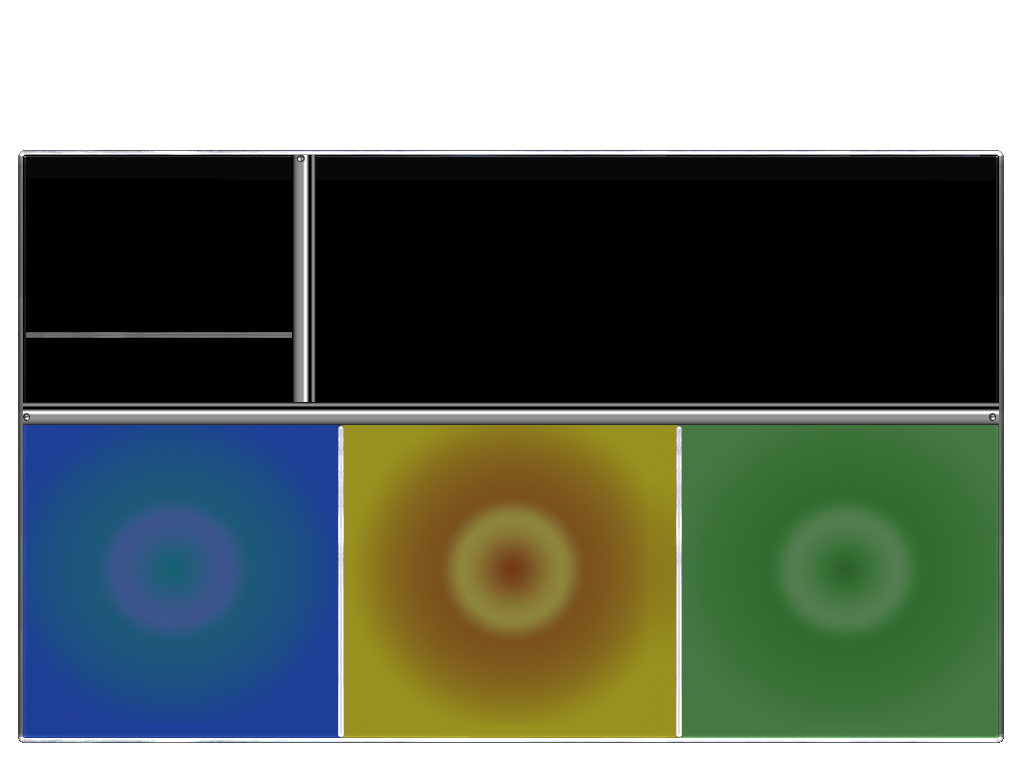
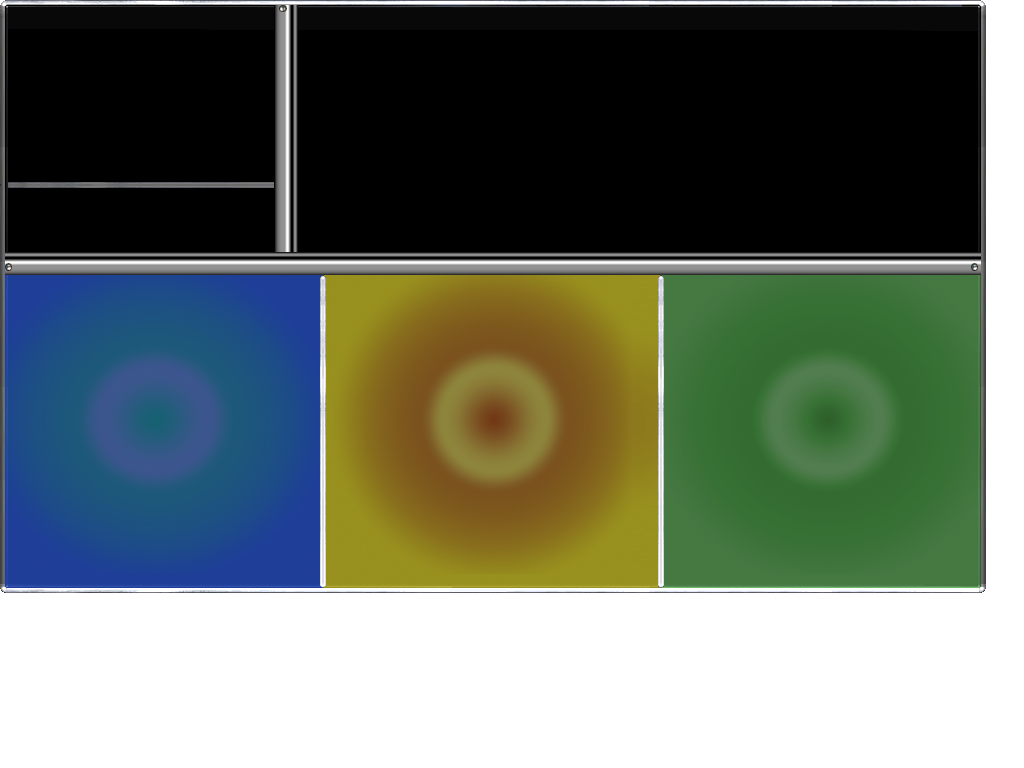
Troop menu Done without changing sprites of the cards, have to fix coordinates of the sprites

diff --git a/Motor2D/StrategyMapScene.cpp b/Motor2D/StrategyMapScene.cpp
@@ -70,26 +70,38 @@ bool StrategyMapScene::Start()
 	App->render->camera.y = -world_position.y + h;
 
 	// Troops menu
-	t_b_bg = App->gui->CreateImage({ 20,95 }, { 26,908,986,593 }, main_panel);
-	App->gui->DisableElement(t_b_bg);
-	backbutton_t_b = App->gui->CreateButton({ 940,100 }, small_button_rect, t_b_bg);
+	troops_background = App->gui->CreateImage({ 20,95 }, { 789,1222,990,600 }, main_panel);
+	
+	backbutton_t_b = App->gui->CreateButton({ 940,100 }, small_button_rect, troops_background);
 	back_cross_text = App->gui->CreateLabel({ 15,10 }, "ui/Fonts/command_and_conquer___logo_font_by_dexistor371-d6k2yvb.ttf", 28, "X", { 0,0,0,0 }, 0, backbutton_t_b);
 	App->gui->DisableElement(backbutton_t_b);
-	troops_button = App->gui->CreateButton({ 380,100 }, large_button_rect, t_b_bg);
+	troops_button = App->gui->CreateButton({ 380,100 }, large_button_rect, troops_background);
 	troops_text = App->gui->CreateLabel({ 50,10 }, "ui/Fonts/command_and_conquer___logo_font_by_dexistor371-d6k2yvb.ttf", 20, "TROOPS", { 0,0,0,0 }, 0, troops_button);
 	App->gui->DisableElement(troops_button);
-	buildings_button = App->gui->CreateButton({ 600,100 }, large_button_rect, t_b_bg);
+	buildings_button = App->gui->CreateButton({ 600,100 }, large_button_rect, troops_background);
 	buildings_text = App->gui->CreateLabel({ 35,10 }, "ui/Fonts/command_and_conquer___logo_font_by_dexistor371-d6k2yvb.ttf", 20, "BUILDINGS", { 0,0,0,0 }, 0, buildings_button);
 	App->gui->DisableElement(buildings_button);
 
 
-	for (int i = 0; i < 4; i++) {
-	deck_buttons[i] = App->gui->CreateButton({ 940,100 }, nullptr, t_b_bg);
-	}
+	
+	deck_buttons[0] = App->gui->CreateButton({ 320,69 }, App->gui->LoadUIButton(App->game_manager->GetPlayerDeck()->cards[0]->type, "deck"), troops_background);
+	deck_buttons[1] = App->gui->CreateButton({ 485,69 }, App->gui->LoadUIButton(App->game_manager->GetPlayerDeck()->cards[1]->type, "deck"), troops_background);
+	deck_buttons[2] = App->gui->CreateButton({ 666,69 }, App->gui->LoadUIButton(App->game_manager->GetPlayerDeck()->cards[2]->type, "deck"), troops_background);
+	deck_buttons[3] = App->gui->CreateButton({ 800,69 }, App->gui->LoadUIButton(App->game_manager->GetPlayerDeck()->cards[3]->type, "deck"), troops_background);
+	
 
-	for (int i = 0; i < 4; i++) {
-		collection_buttons[i] = App->gui->CreateButton({ 940,100 }, nullptr, t_b_bg);
-	}
+	
+	collection_buttons[0] = App->gui->CreateButton({ 31,320 }, App->gui->LoadUIButton(1, "upgrade"), troops_background);
+	collection_buttons[1] = App->gui->CreateButton({ 170,320 }, App->gui->LoadUIButton(2, "upgrade"), troops_background);
+	collection_buttons[2] = App->gui->CreateButton({ 130,500 }, App->gui->LoadUIButton(3, "upgrade"), troops_background);
+	collection_buttons[3] = App->gui->CreateButton({ 390,320 }, App->gui->LoadUIButton(4, "upgrade"), troops_background);
+	collection_buttons[4] = App->gui->CreateButton({ 550,320 }, App->gui->LoadUIButton(5, "upgrade"), troops_background);
+	collection_buttons[5] = App->gui->CreateButton({ 460,500 }, App->gui->LoadUIButton(6, "upgrade"), troops_background);
+	collection_buttons[6] = App->gui->CreateButton({ 720,320 }, App->gui->LoadUIButton(7, "upgrade"), troops_background);
+	collection_buttons[7] = App->gui->CreateButton({ 860,320 }, App->gui->LoadUIButton(8, "upgrade"), troops_background);
+	collection_buttons[8] = App->gui->CreateButton({ 800,500 }, App->gui->LoadUIButton(9, "upgrade"), troops_background);
+	App->gui->DisableElement(troops_background);
+	
 	
 
 
@@ -153,10 +165,11 @@ bool StrategyMapScene::GUIEvent(UIElement * element, GUI_Event gui_event)
 		}
 		else if (element == menu_button) {
 			App->game_manager->collection;
+			
 
 			App->gui->EnableElement(troops_button);
 			App->gui->EnableElement(buildings_button);
-			App->gui->EnableElement(t_b_bg);
+			App->gui->EnableElement(troops_background);
 			App->gui->EnableElement(backbutton_t_b);
 
 			App->gui->DisableElement(menu_button);
@@ -165,8 +178,8 @@ bool StrategyMapScene::GUIEvent(UIElement * element, GUI_Event gui_event)
 
 
 		}
-		else if (element = backbutton_t_b) {
-			App->gui->DisableElement(t_b_bg);
+		else if (element == backbutton_t_b) {
+			App->gui->DisableElement(troops_background);
 			App->gui->DisableElement(backbutton_t_b);
 			App->gui->DisableElement(troops_button);
 			App->gui->DisableElement(buildings_button);
@@ -175,7 +188,78 @@ bool StrategyMapScene::GUIEvent(UIElement * element, GUI_Event gui_event)
 			App->gui->EnableElement(settings_button);
 
 		}
+		else if (element == deck_buttons[0])
+		{
+			App->gui->DisableElement(deck_buttons[0]);
+			App->game_manager->GetPlayerDeck()->RemoveCard(0);
+		}
+		else if (element == deck_buttons[1])
+		{
+			App->gui->DisableElement(deck_buttons[1]);
+			App->game_manager->GetPlayerDeck()->RemoveCard(1);
+		}
+		else if (element == deck_buttons[2])
+		{
+			App->gui->DisableElement(deck_buttons[2]);
+			App->game_manager->GetPlayerDeck()->RemoveCard(2);
+		}
+		else if (element == deck_buttons[3])
+		{
+			App->gui->DisableElement(deck_buttons[3]);
+			App->game_manager->GetPlayerDeck()->RemoveCard(3);
+		}
+		else if (element == collection_buttons[0])
+		{
+			AddCardToDeck(element,0);
+		}
+		else if (element == collection_buttons[1])
+		{
+			AddCardToDeck(element,1);
+		}
+		else if (element == collection_buttons[2])
+		{
+			AddCardToDeck(element,2);
+		}
+		else if (element == collection_buttons[3])
+		{
+			AddCardToDeck(element,3);
+		}
+		else if (element == collection_buttons[4])
+		{
+			AddCardToDeck(element,4);
+		}
+		else if (element == collection_buttons[5])
+		{
+			AddCardToDeck(element,5);
+		}
+		else if (element == collection_buttons[6])
+		{
+			AddCardToDeck(element,6);
+		}
+		else if (element == collection_buttons[7])
+		{
+			AddCardToDeck(element,7);
+		}
+		else if (element == collection_buttons[8])
+		{
+			AddCardToDeck(element,8);
+		}
+		else if (element == collection_buttons[9])
+		{
+			AddCardToDeck(element,9);
+		}
 	}
 
 	return true;
+}
+
+void  StrategyMapScene::AddCardToDeck(UIElement * element, uint num) {
+	for (int i = 0; i < 4; i++) {
+		Card* card = App->game_manager->GetPlayerDeck()->GetCard((EntityType)(num+1));
+		if (deck_buttons[i]->enabled == false && !card) {
+			App->gui->EnableElement(deck_buttons[i]);
+			App->game_manager->GetPlayerDeck()->AddCard(card);
+			break;
+		}
+	}
 }

diff --git a/Motor2D/StrategyMapScene.h b/Motor2D/StrategyMapScene.h
@@ -8,6 +8,7 @@
 #include "UIImage.h"
 
 
+
 struct SDL_Texture;
 
 class StrategyMapScene :
@@ -34,10 +35,12 @@ public:
 
 	virtual bool GUIEvent(UIElement* element, GUI_Event gui_event);
 
+	void AddCardToDeck(UIElement* element, uint num);
+
 private:
 	UIImage* banner;
 	UIImage* options;
-	UIImage* t_b_bg;
+	UIImage* troops_background;
 	UIImage* main_panel;
 	UILabel* health;
 	UILabel* gold;
@@ -53,7 +56,7 @@ private:
 	UIButton* buildings_button;
 
 	UIButton* deck_buttons[4];
-	std::vector<UIButton*> collection_buttons;
+	UIButton* collection_buttons[9];
 
 };
 

diff --git a/Motor2D/Deck.cpp b/Motor2D/Deck.cpp
@@ -48,3 +48,13 @@ void Deck::RemoveCard(uint position)
 {
 	cards[position] = nullptr;
 }
+
+Card * Deck::GetCard(EntityType type)
+{
+	for (int i = 0; i < MAX_CARDS; i++) {
+		if (cards[i] && cards[i]->type == type) 
+			return cards[i];
+		
+	}
+	return nullptr;
+}

diff --git a/Motor2D/Deck.h b/Motor2D/Deck.h
@@ -14,7 +14,7 @@ public:
 	void CleanUp();
 	void AddCard(Card* card);
 	void RemoveCard(uint position);
-
+	Card* GetCard(EntityType type);
 	Card* cards[MAX_CARDS];
 
 	bool delete_cards = false;

diff --git a/Motor2D/SceneManager.cpp b/Motor2D/SceneManager.cpp
@@ -22,7 +22,7 @@ SceneManager::~SceneManager()
 
 bool SceneManager::Awake(pugi::xml_node &)
 {
-	current_scene = new TestingScene();
+	current_scene = new StrategyMapScene();
 	return true;
 }
 
